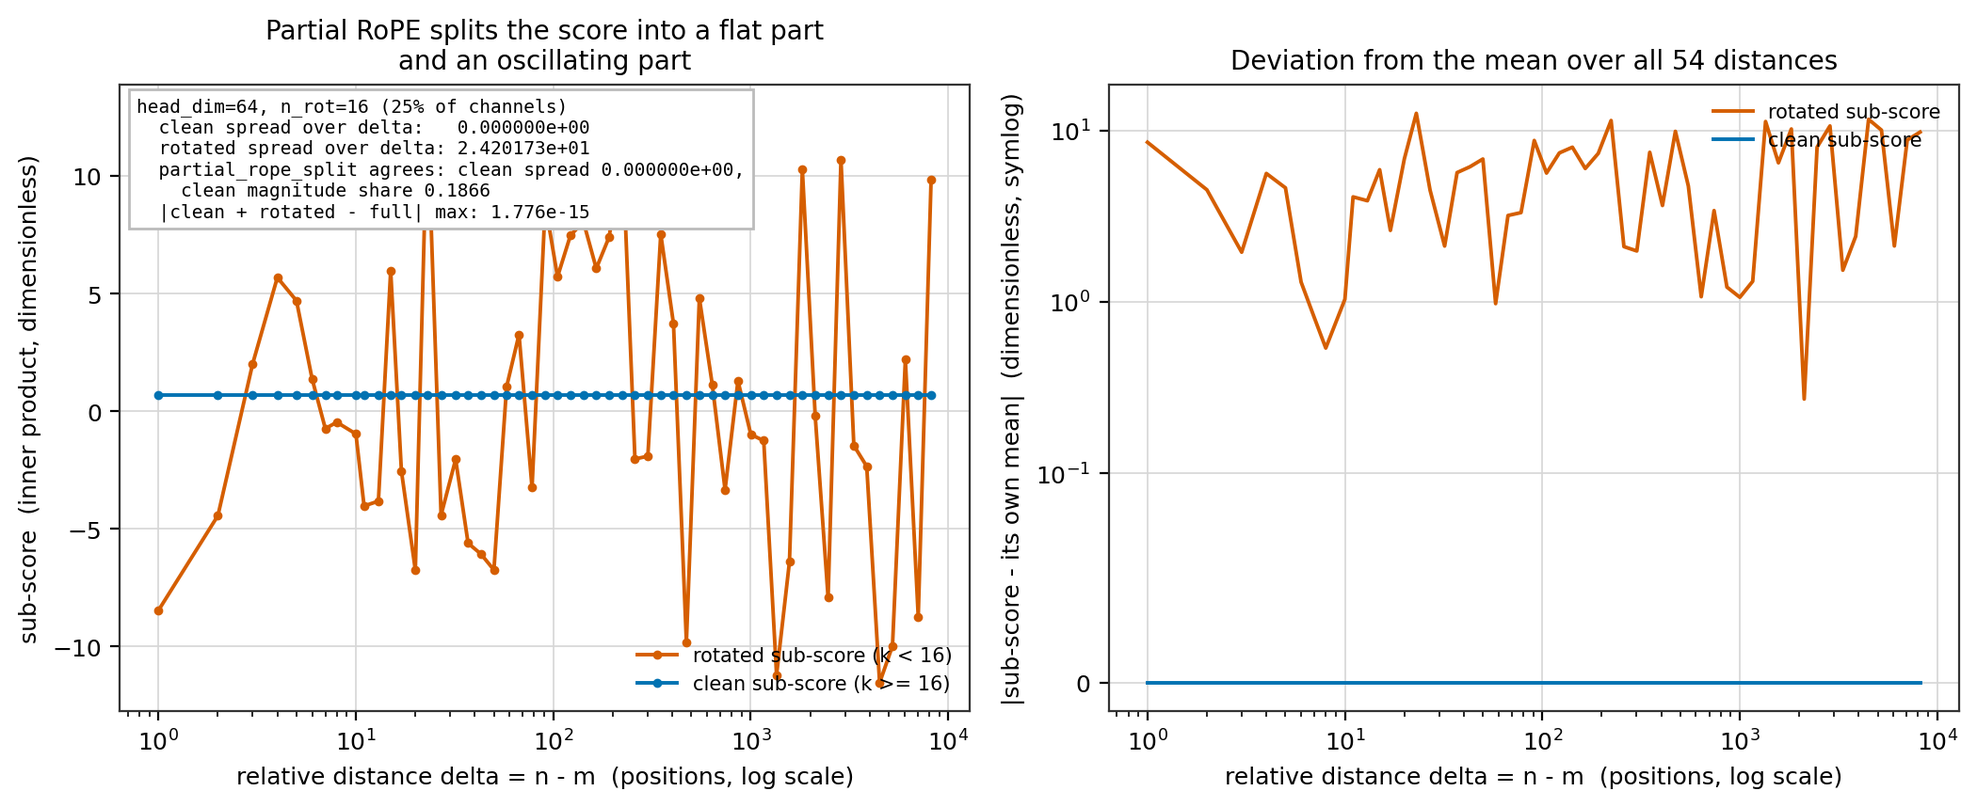
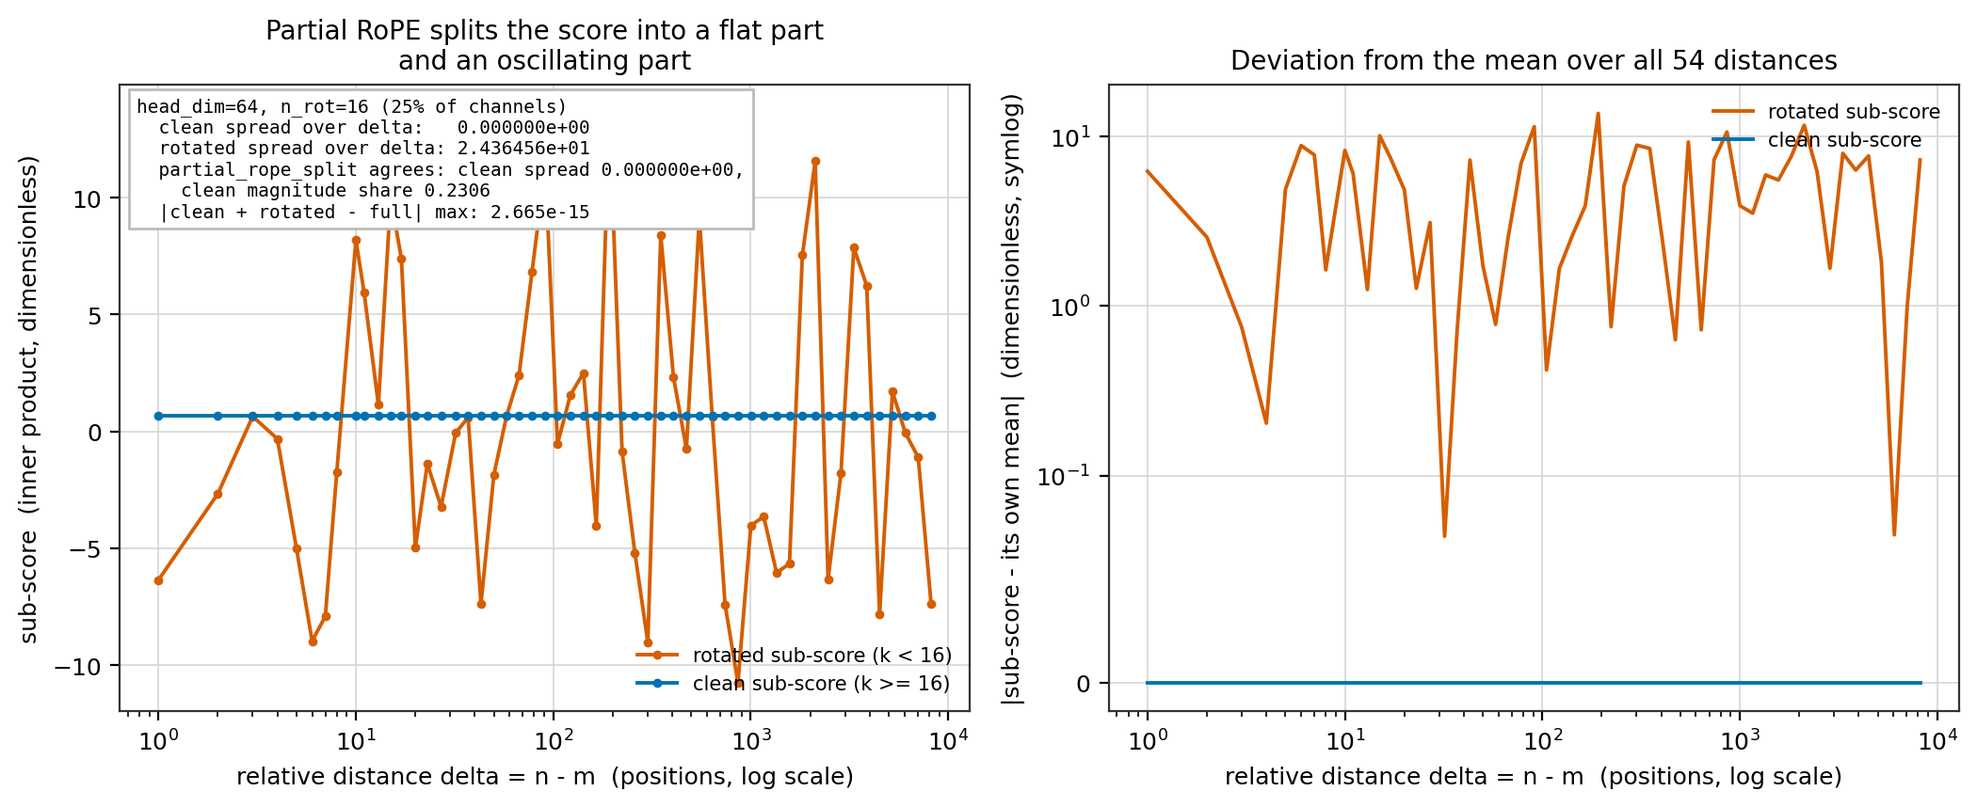
partial rope: use the GPT-NeoX rotary_dim ladder, not the fastest-slice
The partial-RoPE section signposts p = 0.25 and pythia-160m, but
partial_rope_cos_sin built the rotated block from the fastest n_rot/2 channels
of the full-head ladder. HF/GPT-NeoX builds inv_freq from
rotary_dim = n_rot (1.0 / base ** (arange(0, n_rot, 2) / n_rot);
partial_rotary_factor defaults to 0.25), so the rotated pairs must turn by
10000 ** (-2j/16): the slowest rotated pair turns 0.161909 rad at delta = 512,
against 68.276297 rad under the withdrawn slice (a factor of 421.7).

Numbers move wherever the rotated sub-score is quoted:
- rotated spread, JSON grid: 11.341035 -> 20.647208
- rotated spread, 54-point grid (fig07): 24.2017 -> 24.3646
- clean magnitude share: 0.3019/0.1866 -> 0.0749/0.2306; the "substantially
  weighted" sentence is replaced by the honest one (still exact, but a smaller
  part of the score at these distances).
Invariants verified unchanged: clean spread exactly 0.0 on both grids, plotted
constant 0.6857345646988313, norm deviation below 1e-13.

Detector: tests/test_rope.py::test_partial_rotated_pairs_carry_the_rotary_dim_ladder.
Live mutation verdict: revert the ladder line -> 0.23006186 max relative
difference -> failed; restore -> 5 passed.

Also fixes a self-contradictory README sentence ("partial rotation is *not*
orthogonal, so the norm is preserved"), bumps the README test count 1409 ->
1410, and re-pins measurements.json, fig07 CSV/PNG, the paper provenance rows
[…]

diff --git a/tests/test_rope.py b/tests/test_rope.py
@@ -472,12 +472,16 @@ def test_partial_apply_rope_leaves_the_tail_bit_identical(dim):
 
 
 @pytest.mark.parametrize("dim", DIMS)
-def test_partial_rope_repacks_the_lowest_frequencies_into_the_rotated_block(dim):
-    """The rotated block re-packs the ``n_rot // 2`` fastest channels twice.
+def test_partial_rope_carries_the_rotary_dim_ladder(dim):
+    """The rotated block carries the ladder of an ``n_rot``-channel head, duplicated.
 
-    Consequence: for ``0 < n_rot < dim`` the partial layout is *not* the leading slice
-    of the full layout (the full layout would repeat frequencies ``n_rot//2 ..
-    n_rot-1`` there instead).
+    HF GPT-NeoX builds ``inv_freq`` from ``rotary_dim = n_rot`` --
+    ``1.0 / (base ** (arange(0, n_rot, 2) / n_rot))`` in
+    ``models/gpt_neox/modeling_gpt_neox.py`` -- so the rotated block is not a re-run
+    of the full-head ladder's fastest channels. Where ``n_rot`` divides ``dim`` the
+    two constructions are bit-identical; where it does not, ``rope.py`` rebuilds the
+    ladder from the base the full ladder encodes and the check is to float64
+    precision.
     """
     pos = _positions(9)
     inv_f = R.inv_freq(dim)
@@ -486,13 +490,62 @@ def test_partial_rope_repacks_the_lowest_frequencies_into_the_rotated_block(dim)
         if n_rot == 0:
             continue
         k = n_rot // 2
+        ref = 1.0 / (BASES[0] ** (np.arange(0, n_rot, 2, dtype=np.float64) / n_rot))
+        ref_cos, ref_sin = R.rope_cos_sin(pos, ref)
+        ref_cos_half, ref_sin_half = ref_cos[:, :k], ref_sin[:, :k]
         cos, sin = R.partial_rope_cos_sin(pos, inv_f, n_rot)
-        np.testing.assert_array_equal(cos[:, :k], full_cos[:, :k])
-        np.testing.assert_array_equal(cos[:, k:n_rot], full_cos[:, :k])
-        np.testing.assert_array_equal(sin[:, :k], full_sin[:, :k])
-        np.testing.assert_array_equal(sin[:, k:n_rot], full_sin[:, :k])
+        for got, want in (
+            (cos[:, :k], ref_cos_half),
+            (cos[:, k:n_rot], ref_cos_half),
+            (sin[:, :k], ref_sin_half),
+            (sin[:, k:n_rot], ref_sin_half),
+        ):
+            if dim % n_rot == 0:
+                np.testing.assert_array_equal(got, want)
+            else:
+                # The rebuild round-trips the base through inv_f[1]
+                # (10000 -> 9999.99999999998, a 2.0e-15 relative loss), so the
+                # comparison sees 1-2 ulp disagreements; measured worst relative
+                # difference is 1.6e-14. A structurally wrong ladder (any other
+                # stride) differs by O(0.1), twelve orders of magnitude above
+                # this tolerance.
+                np.testing.assert_allclose(got, want, rtol=1e-12, atol=0.0)
         if n_rot < dim:
             assert not np.array_equal(cos[:, :n_rot], full_cos[:, :n_rot])
+            assert not np.array_equal(sin[:, :n_rot], full_sin[:, :n_rot])
+
+
+def test_partial_rotated_pairs_carry_the_rotary_dim_ladder():
+    """Detector: at ``head_dim = 64``, ``n_rot = 16`` the rotated pairs turn by
+    ``10000 ** (-2j/16)``, not by ``full[:8]``.
+
+    ``full[::4][:8]`` is the GPT-NeoX ``rotary_dim = 16`` ladder (bit-identical to
+    HF's ``1.0 / (base ** (arange(0, 16, 2) / 16))``): its slowest rotated pair turns
+    by ``512 * 10000 ** (-14/16) = 0.161909`` rad at ``delta = 512``. The withdrawn
+    variant sliced the full ladder's fastest eight channels, whose slowest pair would
+    turn by ``68.276297`` rad -- more than ``400`` times further. Revert the ladder
+    line in ``partial_rope_cos_sin`` and the first table equality check below fails with a ``0.23`` maximum relative difference (measured).
+    """
+    dim, n_rot, base = 64, 16, 10000.0
+    half = n_rot // 2
+    inv_f = R.inv_freq(dim)
+
+    rotary = 1.0 / (base ** (np.arange(0, n_rot, 2, dtype=np.float64) / n_rot))
+    assert dim % n_rot == 0, "the subsample below needs n_rot to divide dim"
+    np.testing.assert_array_equal(inv_f[:: dim // n_rot][:half], rotary)
+
+    cos, sin = R.partial_rope_cos_sin(np.array([0.0, 1.0, 512.0]), inv_f, n_rot)
+    ref_cos, ref_sin = R.rope_cos_sin(np.array([1.0]), rotary)
+    np.testing.assert_array_equal(cos[1, :n_rot], ref_cos[0])
+    np.testing.assert_array_equal(sin[1, :n_rot], ref_sin[0])
+
+    angles = np.arctan2(sin[1, :half], cos[1, :half])
+    np.testing.assert_allclose(angles, rotary, rtol=1e-12, atol=0.0)
+
+    slowest = 512.0 * rotary[-1]
+    withdrawn = 512.0 * inv_f[:half][-1]
+    assert slowest == pytest.approx(512.0 * base ** (-14.0 / 16.0), rel=1e-12)
+    assert withdrawn / slowest > 400.0
 
 
 @pytest.mark.parametrize("dim", DIMS)
@@ -536,7 +589,7 @@ def test_partial_propagates_mscale_to_the_rotated_block_only(dim):
     n_rot = min(16, dim)
     mscale = 1.3465735902799727
     cos, sin = R.partial_rope_cos_sin(pos, inv_f, n_rot, mscale)
-    ref_cos, ref_sin = R.rope_cos_sin(pos, inv_f[: n_rot // 2], mscale)
+    ref_cos, ref_sin = R.rope_cos_sin(pos, inv_f[:: dim // n_rot][: n_rot // 2], mscale)
     np.testing.assert_array_equal(cos[:, :n_rot], ref_cos)
     np.testing.assert_array_equal(sin[:, :n_rot], ref_sin)
     np.testing.assert_allclose(cos[:, :n_rot] ** 2 + sin[:, :n_rot] ** 2, mscale**2, rtol=0.0, atol=1e-14)

diff --git a/tests/test_experiments.py b/tests/test_experiments.py
@@ -1103,20 +1103,24 @@ def test_n_rot_is_int_of_the_fraction(n_rot_frac, n_rot):
     assert reported["deltas"] == [1, 64, 512, 2048]
 
 
-def _pp_rope_vector(vec: np.ndarray, freqs: np.ndarray, n_rot: int, pos: int) -> np.ndarray:
+def _pp_rope_vector(vec: np.ndarray, rot_freqs: np.ndarray, n_rot: int, pos: int) -> np.ndarray:
     """The partial-RoPE operator, written out by hand.
 
     Independent of ``rope.apply_partial_rope``: the rotated block ``0 .. n_rot-1``
     is split in half and paired within itself, ``k`` with ``k + n_rot//2``, which is
     the GPT-NeoX layout. The tail ``n_rot .. dim`` is untouched. Because each pair
     is a proper 2-D rotation the whole operator is orthogonal.
+
+    ``rot_freqs`` is the ladder of the *rotated block* alone, ``base ** (-2j/n_rot)``
+    (GPT-NeoX builds ``inv_freq`` from ``rotary_dim``, not from the head); the ladder
+    rule itself is pinned in ``tests/test_rope.py``.
     """
     out = np.array(vec, dtype=np.float64, copy=True)
     if n_rot == 0:
         return out
     half = n_rot // 2
     for k in range(half):
-        angle = pos * freqs[k]
+        angle = pos * rot_freqs[k]
         c, s = math.cos(angle), math.sin(angle)
         a, b = vec[k], vec[k + half]
         out[k] = a * c - b * s
@@ -1127,9 +1131,12 @@ def _pp_rope_vector(vec: np.ndarray, freqs: np.ndarray, n_rot: int, pos: int) ->
 def test_partial_rope_operator_matches_the_hand_written_one():
     dim, n_rot = 64, 16
     freqs = _ladder(dim)
+    # The rotated block's ladder is the full ladder subsampled by head_dim // n_rot,
+    # which is bit-identical to what the module uses for this pair of parameters.
+    rot_freqs = freqs[:: dim // n_rot][: n_rot // 2]
     v, _ = _vecs(dim, 51)
     for pos in (0, 37, 512):
-        mine = _pp_rope_vector(v, freqs, n_rot, pos)
+        mine = _pp_rope_vector(v, rot_freqs, n_rot, pos)
         cos, sin = R.partial_rope_cos_sin(np.array([pos]), freqs, n_rot)
         theirs = R.apply_partial_rope(v[None, :], cos, sin, n_rot)[0]
         assert np.array_equal(mine, theirs)
@@ -1140,17 +1147,17 @@ def test_partial_rope_operator_matches_the_hand_written_one():
     # unnoticed until an orthogonality check.
     cos, sin = R.partial_rope_cos_sin(np.array([37]), freqs, n_rot)
     wrong = R.apply_rope(v[None, :], cos, sin)[0]
-    assert not np.array_equal(_pp_rope_vector(v, freqs, n_rot, 37), wrong)
+    assert not np.array_equal(_pp_rope_vector(v, rot_freqs, n_rot, 37), wrong)
     assert abs(float(np.linalg.norm(wrong)) - float(np.linalg.norm(v))) > 1e-3
 
 
 def test_partial_norm_deviation_matches_the_hand_written_operator():
     """The hand-written GPT-NeoX operator must reproduce the module's measurement."""
     dim, n_rot = 64, 16
-    freqs = _ladder(dim)
+    rot_freqs = _ladder(n_rot)
     rng = np.random.default_rng(3)
     q_hat = rng.standard_normal(dim)
-    mine = _pp_rope_vector(q_hat, freqs, n_rot, 37)
+    mine = _pp_rope_vector(q_hat, rot_freqs, n_rot, 37)
     expected = float(np.linalg.norm(mine) - np.linalg.norm(q_hat))
     assert expected == pytest.approx(
         E.partial_rope_split()["partial_norm_deviation"], rel=1e-12
@@ -1170,11 +1177,10 @@ def test_partial_rotary_is_orthogonal_for_every_n_rot():
     not what any published partial-rotary model does.
     """
     dim = 64
-    freqs = _ladder(dim)
     rng = np.random.default_rng(7)
     for n_rot in range(2, dim + 1, 2):
         vec = rng.standard_normal(dim)
-        out = _pp_rope_vector(vec, freqs, n_rot, 37)
+        out = _pp_rope_vector(vec, _ladder(n_rot), n_rot, 37)
         assert float(np.linalg.norm(out)) == pytest.approx(
             float(np.linalg.norm(vec)), abs=EXACT_TOL
         ), f"n_rot={n_rot} leaked norm"
@@ -1254,8 +1260,8 @@ def test_partial_rope_split_is_reproducible_from_the_documented_construction():
     assert float(share.mean()) == pytest.approx(
         reported["clean_magnitude_share_mean"], rel=1e-12
     )
-    assert reported["rotated_score_spread"] == pytest.approx(11.341035002815437, rel=1e-9)
-    assert reported["clean_magnitude_share_mean"] == pytest.approx(0.30194191480559224, rel=1e-9)
+    assert reported["rotated_score_spread"] == pytest.approx(20.647208273835265, rel=1e-9)
+    assert reported["clean_magnitude_share_mean"] == pytest.approx(0.07490835206551523, rel=1e-9)
 
 
 # ==========================================================================

diff --git a/projects/rope_attribution/rope.py b/projects/rope_attribution/rope.py
@@ -10,6 +10,12 @@ RoPE
     Inverse frequencies and the split-half rotation convention follow
     HuggingFace `transformers`, `models/llama/modeling_llama.py`
     (`rotate_half`, `compute_default_rope_parameters`).
+    Partial rotary (`partial_rope_cos_sin`, `apply_partial_rope`) follows the
+    GPT-NeoX layout in `transformers`, `models/gpt_neox/modeling_gpt_neox.py`:
+    the rotated block's inverse frequencies are built from `rotary_dim`
+    (`dim = int(head_dim * partial_rotary_factor)`), and channel `i` is paired
+    with `i + rotary_dim // 2` within the block -- the layout of
+    `EleutherAI/pythia-160m` (`rotary_pct = 0.25`, `head_dim = 64`).
 
 YaRN
     Peng, Bowen; Quesnelle, Jeffrey; Fan, Honglu; Shippole, Enrico.
@@ -142,9 +148,19 @@ def partial_rope_cos_sin(
 
     The remaining ``head_dim - n_rot`` dimensions receive ``cos = 1, sin = 0`` and are
     therefore left completely unrotated. This is the "partial rotary" arrangement used
-    by GPT-NeoX and by models such as ``EleutherAI/pythia-160m`` (``rotary_pct = 0.25``):
-    a fraction ``n_rot / head_dim`` of the channels carry position, the rest carry
-    content only.
+    by GPT-NeoX and by models such as ``EleutherAI/pythia-160m`` (``rotary_pct = 0.25``,
+    ``head_dim = 64``, hence ``rotary_dim = 16``): a fraction ``n_rot / head_dim`` of the
+    channels carry position, the rest carry content only.
+
+    **The ladder is built from ``n_rot``, not from the full head.** GPT-NeoX computes
+    ``dim = int(head_dim * partial_rotary_factor)`` and then
+    ``inv_freq = 1.0 / (base ** (arange(0, dim, 2) / dim))``
+    (`models/gpt_neox/modeling_gpt_neox.py`, ``compute_default_rope_parameters``), so the
+    rotated block carries ``inv_freq_j = base ** (-2j/n_rot)``. At ``head_dim = 64`` and
+    ``n_rot = 16`` those are the *slowest* channels of the full-head ladder under a
+    stride of four (``full[::4][:8]``), not the fastest eight (``full[:8]``): at
+    ``delta = 512`` the slowest rotated pair turns by 0.1619 rad under the GPT-NeoX
+    ladder against 68.28 rad under the leading-slice variant.
 
     **The pairing matters.** Apply these tables with :func:`apply_partial_rope`, which
     pairs channel ``i`` with channel ``i + n_rot // 2`` *within the rotated block*.
@@ -165,12 +181,31 @@ def partial_rope_cos_sin(
     if n_rot == 0:
         ones = np.ones((len(positions), dim), dtype=np.float64)
         return ones, np.zeros((len(positions), dim), dtype=np.float64)
-    cos, sin = rope_cos_sin(positions, inv_f[: n_rot // 2], mscale)
+    cos, sin = rope_cos_sin(positions, _rotary_dim_ladder(inv_f, n_rot), mscale)
     pad = dim - n_rot
     return (
         np.concatenate([cos, np.ones((len(positions), pad))], axis=-1),
         np.concatenate([sin, np.zeros((len(positions), pad))], axis=-1),
     )
+
+
+def _rotary_dim_ladder(inv_f: np.ndarray, n_rot: int) -> np.ndarray:
+    """Inverse frequencies of a ``rotary_dim = n_rot`` head: ``base ** (-2j/n_rot)``.
+
+    GPT-NeoX builds the ladder from the rotated block, not from the full head:
+    ``dim = int(head_dim * partial_rotary_factor)`` and then
+    ``1.0 / (base ** (arange(0, dim, 2) / dim))``
+    (`models/gpt_neox/modeling_gpt_neox.py`, ``compute_default_rope_parameters``).
+    The caller passes the full-head ladder, so whenever ``n_rot`` divides ``dim`` the
+    rotated ladder is its stride-``dim // n_rot`` subsample. Otherwise -- a width and a
+    rotated block that no ladder can be subsampled into -- it is rebuilt from the base
+    the full ladder encodes, ``inv_f[1] = base ** (-2 / dim)``.
+    """
+    dim = inv_f.shape[0] * 2
+    if dim % n_rot == 0:
+        return inv_f[:: dim // n_rot][: n_rot // 2]
+    base = float(inv_f[1]) ** (-dim / 2.0)
+    return base ** (-2.0 * np.arange(n_rot // 2, dtype=np.float64) / n_rot)
 
 
 # --------------------------------------------------------------------------

diff --git a/paper/main.tex b/paper/main.tex
@@ -884,8 +884,8 @@ App.~\ref{app:context} & $9$ of $32$, $32.00\times$ & \texttt{fig01} CSV, unchan
  & $52.42$, $23.40$ & \texttt{fig02} CSV, \texttt{abs\_angle\_rad} \\
 Sec.~\ref{sec:exact} & $0.9526294618$, $2.3046990967$ & \texttt{fig06} CSV, \texttt{amplitude\_R\_k} \\
  & $-0.9525$, $-1.0607$, $0.1136$, $4.3\!\times\!10^{-6}$ & \texttt{fig06} CSV \\
-Sec.~\ref{sec:partial} & $0.0$, $11.34$, $24.20$ & \texttt{measurements.json :: partial\_rope}; \texttt{fig07} CSV \\
- & $0.302$, $0.187$ & \texttt{clean\_magnitude\_share\_mean}; fig07 \texttt{clean\_subscore} \\
+Sec.~\ref{sec:partial} & $0.0$, $20.65$, $24.36$ & \texttt{measurements.json :: partial\_rope}; \texttt{fig07} CSV \\
+ & $0.075$, $0.231$ & \texttt{clean\_magnitude\_share\_mean}; fig07 \texttt{clean\_subscore} \\
  & $<10^{-13}$, $1.776\!\times\!10^{-15}$ & \texttt{partial\_norm\_deviation}; full-RoPE floor \\
 Sec.~\ref{sec:mscale} & $1.3465736$ & \texttt{measurements.json :: mscale\_entropy.mscale} \\
  & $0.9233 \to 0.7687$ & \texttt{entropy\_ratio\_unscaled}, \texttt{\_mscaled} \\
@@ -1058,10 +1058,11 @@ Figure~\ref{fig:partial} shows the split. At $d = 64$ with
 $n_{\mathrm{rot}} = 16$: the unrotated sub-score's spread over the $5$-point
 grid is \emph{exactly} $0.0$, and over the finer $54$-point grid it
 is also exactly $0.0$ --- the plotted constant is $0.6857345646988313$ at every
-distance. The rotated sub-score, over those same grids, varies by $11.34$ and
-$24.20$ respectively. The clean part carries a mean magnitude share of the
-score of $0.302$ (JSON grid) and $0.187$ (figure grid), so this is a
-substantially weighted, genuinely position-free bilinear term.
+distance. The rotated sub-score, over those same grids, varies by $20.65$ and
+$24.36$ respectively. The clean part carries a mean magnitude share of the
+score of $0.075$ (JSON grid) and $0.231$ (figure grid): a genuinely
+position-free bilinear term, though a smaller part of the score than the
+rotated one at these distances.
 
 This is the one setting in which a position-free additive attribution is exactly
 correct, and it is correct because a quarter of the channels carry no position

diff --git a/tests/test_paper_claims.py b/tests/test_paper_claims.py
@@ -398,7 +398,7 @@ CLAIMS: tuple[Claim, ...] = (
     ),
     Claim("partial_clean_const", r"the plotted constant is \$([\d.]+)\$ at every"),
     Claim("partial_rot_spread", r"over those same grids, varies by \$(\d+\.\d+)\$ and \$(\d+\.\d+)\$ respectively"),
-    Claim("partial_share", r"score of \$(0\.302)\$ \(JSON grid\) and \$(0\.187)\$ \(figure grid\)"),
+    Claim("partial_share", r"score of \$(0\.075)\$ \(JSON grid\) and \$(0\.231)\$ \(figure grid\)"),
     # The norm-deviation claims are withdrawn: partial rotary is orthogonal once the
     # rotated block is paired within itself, so the paper now states a ceiling and
     # explains the silently-wrong pairing that motivated the earlier, wrong number.
@@ -407,7 +407,7 @@ CLAIMS: tuple[Claim, ...] = (
         r"&\s*\$<(10)\^\{-(13)\}\$, \$(1\.776)\\\!\\times\\\!10\^\{(-15)\}\$ & \\texttt\{partial",
     ),
     Claim("partial_prov_spreads", r"&\s*\$(0\.0)\$, \$(\d+\.\d+)\$, \$(\d+\.\d+)\$ & \\texttt\{measurements\.json :: partial"),
-    Claim("partial_prov_share", r"&\s*\$(0\.302)\$, \$(0\.187)\$ & \\texttt\{clean"),
+    Claim("partial_prov_share", r"&\s*\$(0\.075)\$, \$(0\.231)\$ & \\texttt\{clean"),
     # ---- mscale / entropy -------------------------------------------------------
     Claim("mscale_formula", r"\\mathrm\{mscale\} = (0\.1) \\ln s \+ 1"),
     Claim(
@@ -434,7 +434,7 @@ CLAIMS: tuple[Claim, ...] = (
     Claim("prov_pair_d1", r"&\s*\$(-0\.9525)\$, \$(-1\.0607)\$, \$(0\.1136)\$, \$(4\.3)\\\!\\times\\\!10\^\{(-6)\}\$ & \\texttt\{fig06\}"),
     Claim("prov_yarn_note", r"&\s*\$(\d+)\$ of \$(\d+)\$ bit-for-bit"),
     Claim("prov_partial", r"&\s*\$(0\.0)\$, \$(\d+\.\d+)\$, \$(\d+\.\d+)\$ & \\texttt\{measurements"),
-    Claim("prov_partial_share", r"&\s*\$(0\.302)\$, \$(0\.187)\$ & \\texttt\{clean"),
+    Claim("prov_partial_share", r"&\s*\$(0\.075)\$, \$(0\.231)\$ & \\texttt\{clean"),
     Claim("prov_partial_norm", r"&\s*\$<(10)\^\{-(13)\}\$, \$(1\.776)\\\!\\times\\\!10\^\{(-15)\}\$ & \\texttt\{partial"),
     # The remark that replaced the withdrawn norm claim restates n_rot.
     Claim(

diff --git a/figures/README.md b/figures/README.md
@@ -37,7 +37,7 @@ plotted, so no claim has to be read off a pixel. Log axes clip at
 | `fig04_linearizable_fraction.png` | experiments.method_spectrum -> frac_channels_linearizable, seed=2 | at delta=8192: rope_base_10k retains 0.0000 of its channels and yarn retains 0.1250 (the other two retain 0.1250 and 0.1250). |
 | `fig05_linearization_error.png` | experiments.method_spectrum -> amplitude_weighted_err and per_pair_err_rms | at delta=8192 the amplitude-weighted error is 1.24572e+06 for rope_base_10k and 1.24179e+06 for yarn, a ratio of only 0.996840. |
 | `fig06_pair_exact_vs_linear.png` | experiments.pair_terms(...).contributions() vs the Taylor form | the fastest rotary pair (k=0) has a normalized error as large as the term itself from delta=3 in plain RoPE and delta=3 in YaRN - the same, because YaRN does not touch that channel. |
-| `fig07_partial_rope.png` | recomputed here from rope.partial_rope_cos_sin + rope.apply_partial_rope, cross-checked against experiments.partial_rope_split(seed=3) | the clean (unrotated) sub-score varies by 0.000e+00 across all 54 distances, while the rotated sub-score varies by 24.2017. |
+| `fig07_partial_rope.png` | recomputed here from rope.partial_rope_cos_sin + rope.apply_partial_rope, cross-checked against experiments.partial_rope_split(seed=3) | the clean (unrotated) sub-score varies by 0.000e+00 across all 54 distances, while the rotated sub-score varies by 24.3646. |
 | `fig08_mscale_entropy.png` | experiments.mscale_entropy over 18 values of scale, seed=4 | at scale=32, mscale=1.346574 pulls H/lnT from 0.9233 down to 0.7687, a drop of 0.1546. |
 | `fig09_position_conditional_attribution.png` | recomputed from experiments.score_relative on a synthetic SAE-like decomposition identical to experiments.feature_attribution(seed=1) | 8 of 8 features reverse sign somewhere in the range [1, 8192], with the score still additive to 4.974e-14. The magnitudes at the two ends of the range agree to within 10^-0.19, so what changes across distance is which way the contribution points, not how large it is. The max/min ratio this figure was once described by is a grid-density artefact, is deliberately not plotted, and is disproven against grid density in rope_attribution.statistics; the quantities to trust are the sign change and the additivity residual. |
 | `fig10_seed_variance.png` | rope_attribution.statistics.contribution_grid over 12 seeds starting at 20250929, 48 distances (54 requested), F=8 | all 12 seeds give a sign-crossing fraction of 1.0000 (SD 0.0000); the coefficient of variation is 0.7019 +/- 0.0263, and the endpoint log-ratio averages -0.0834 (SD 0.2365), so the two endpoints agree and the reversal is interior. |

diff --git a/README.md b/README.md
@@ -59,7 +59,7 @@ paper without a test for it fails the suite.
 
 ```bash
 pip install -e . && pip install -r requirements-dev.txt
-pytest -q                                        # 1409 tests (excludes tests/test_readme_claims.py)
+pytest -q                                        # 1410 tests (excludes tests/test_readme_claims.py)
 python -m projects.rope_attribution.experiments  # results/measurements.json
 python -m projects.rope_attribution.statistics  # results/statistics.json
 python -m projects.rope_attribution.sensitivity  # results/sensitivity.json
@@ -153,7 +153,7 @@ projects/rope_attribution/
   real_model.py   identities re-measured on three trained checkpoints
   figures.py      the figure set, values computed at run time or read from the
                   results/ artifacts
-tests/            1409 tests (excludes tests/test_readme_claims.py)
+tests/            1410 tests (excludes tests/test_readme_claims.py)
 figures/          eleven figures, each with a CSV sidecar
 results/          measurements.json  (structural facts)
                     statistics.json          (grid-independence, seed spread)
@@ -264,11 +264,12 @@ any of these methods; what YaRN buys is a larger linearizable majority
 
 **Partial RoPE yields an exactly position-free sub-score.** At `p = 0.25` the
 unrotated 75% of channels contribute a sub-score whose spread across distance is
-exactly `0.0`, while the rotated quarter varies by `11.34`. This is a clean
+exactly `0.0`, while the rotated quarter varies by `20.65`. This is a clean
 separation of a bilinear, position-independent term from the position-carrying
-one (`figures/fig07`). Note that partial rotation is *not* orthogonal, so the norm
+one (`figures/fig07`). Note that partial rotation is orthogonal, so the norm
 is preserved exactly as for full RoPE, provided the rotated block is paired within
-itself (the GPT-NeoX layout, as in `pythia-160m`). Pairing across the whole head
+itself (the GPT-NeoX layout, as in `pythia-160m`) and its frequencies are built
+from `rotary_dim` as HF does. Pairing across the whole head
 instead leaves every touched pair half rotated and half not; that variant is not
 orthogonal and is not what any published model does.
 
